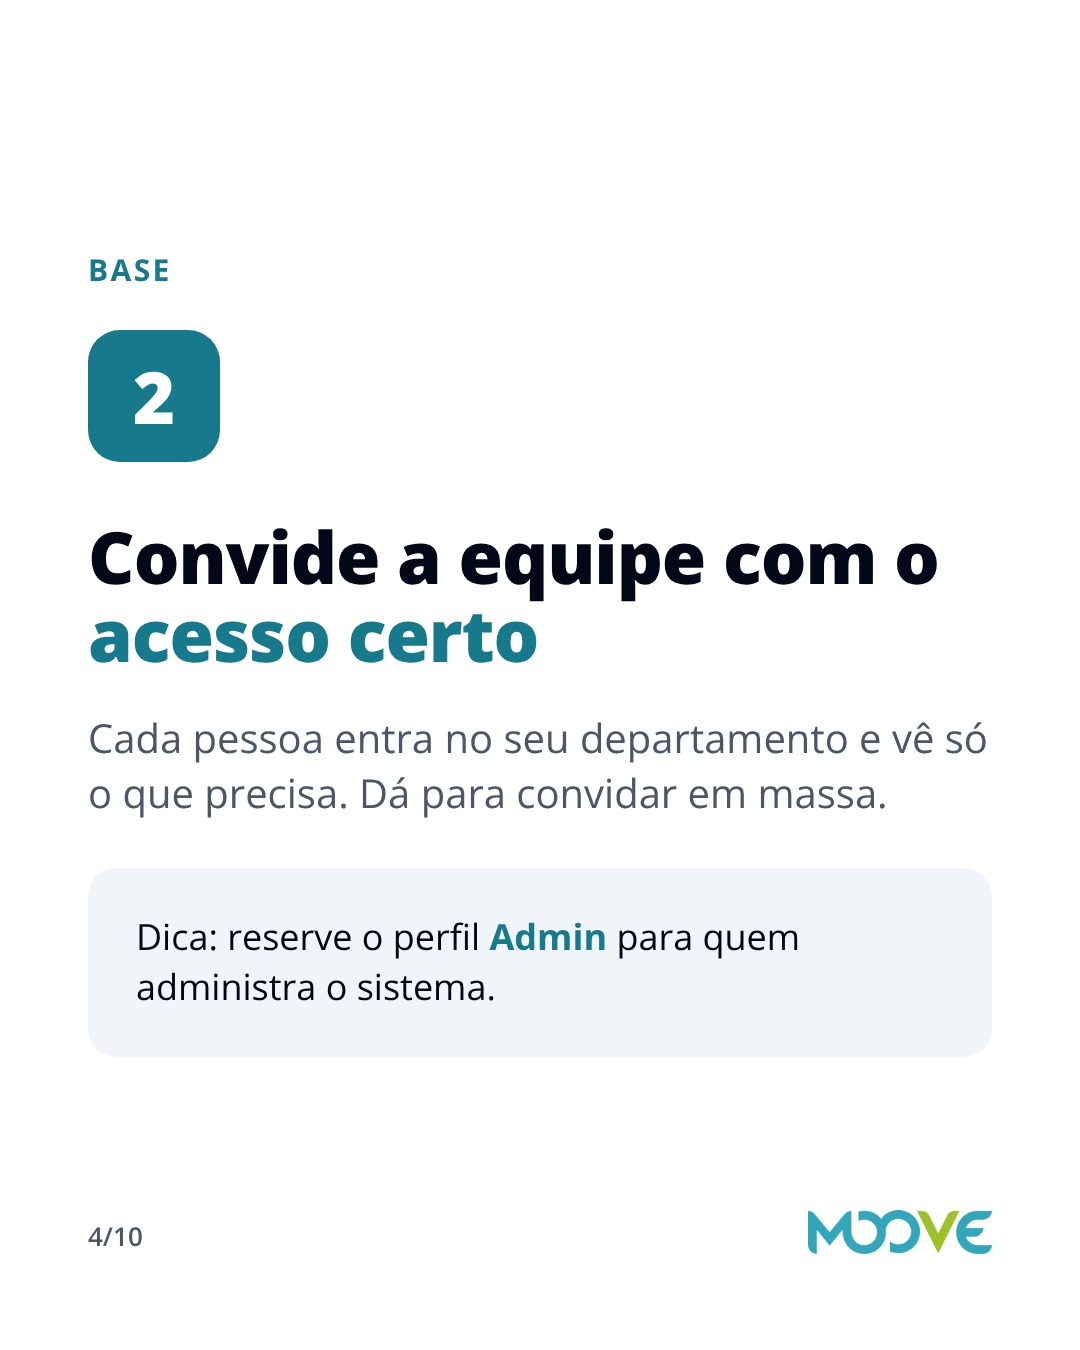
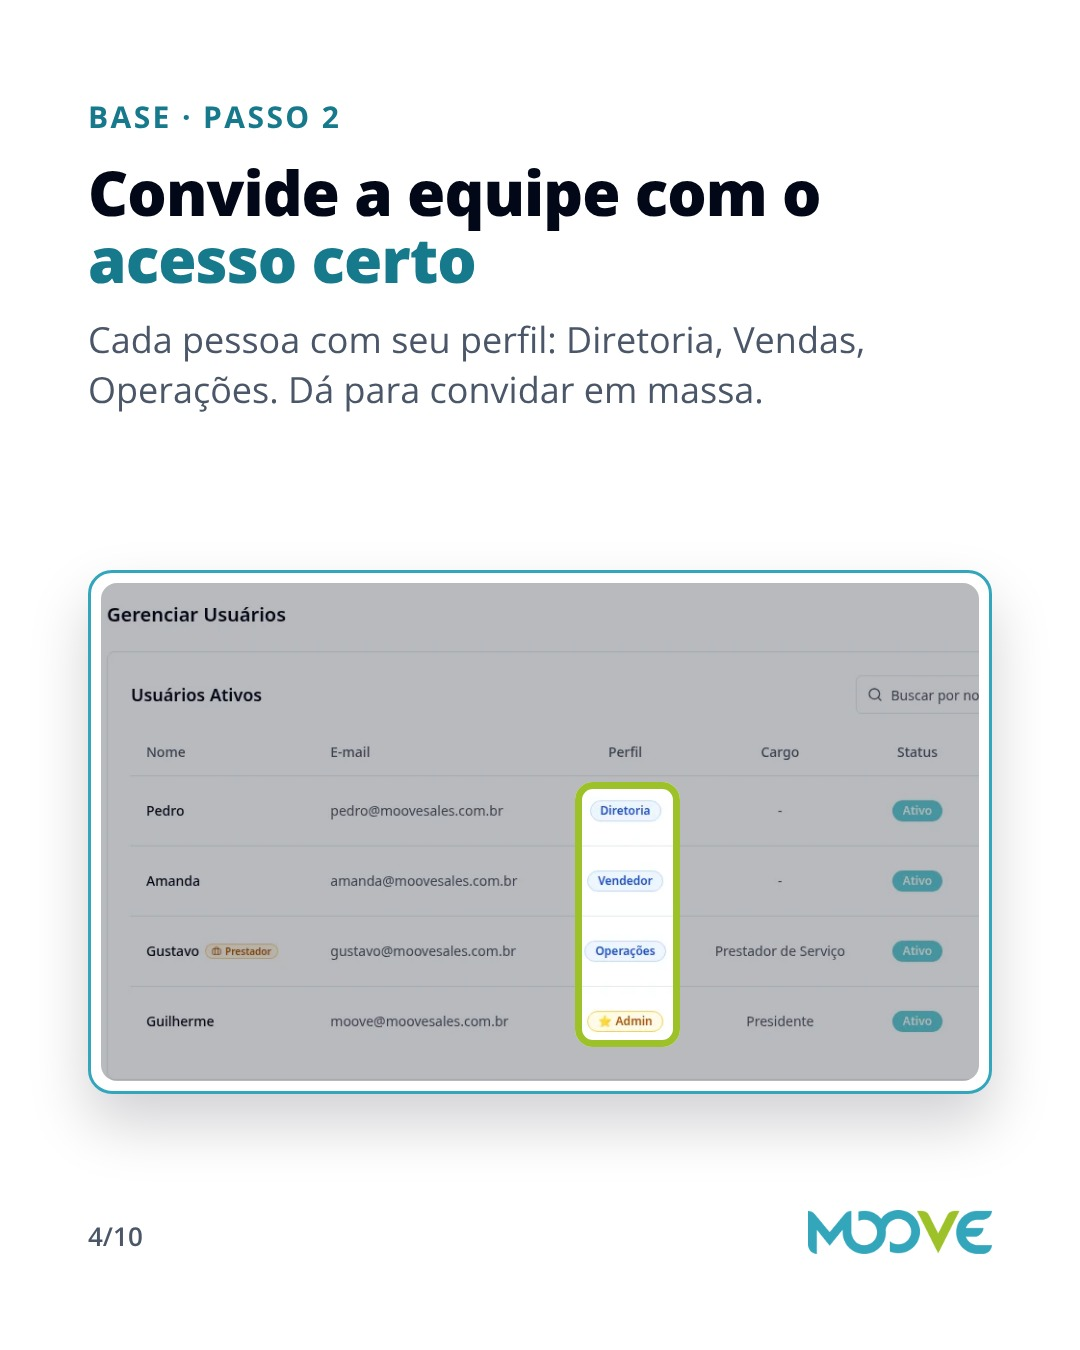
Telas de usuários e permissões liberadas; passo 2 com tela
Claude-Session: https://claude.ai/code/session_019mRqcKRLGfPi9zdJtbKNbn

diff --git a/kit/telas/CATALOGO.md b/kit/telas/CATALOGO.md
@@ -11,7 +11,7 @@ Uso no kit: slide `"tipo": "tela"` com `"tela": "<arquivo>"`. Arquivos terminado
 1. O texto do slide só pode afirmar o que a tela mostra (coluna "Comprova"). Recurso que não aparece na tela precisa de outra tela ou de outra fonte (manual do Moove via conector).
 2. Use o nome do módulo como aparece no menu do sistema (coluna "Módulo / caminho").
 3. Números das telas são de demonstração: nunca apresentar como resultado de cliente nem da Moove.
-4. Respeite a coluna "Cuidados". **Não usar:** `usuarios.webp`, `permissoes.webp` (e-mails da equipe), `identidade.webp` (avisos de "sem permissão" na tela).
+4. Respeite a coluna "Cuidados". **Não usar:** `identidade.webp` (avisos de "sem permissão" na tela). `usuarios.webp` e `permissoes.webp` estão liberadas: os e-mails são fictícios (confirmado por Guilherme em 02/11/2026).
 
 ## Comercial e atendimento
 
@@ -75,6 +75,13 @@ Uso no kit: slide `"tipo": "tela"` com `"tela": "<arquivo>"`. Arquivos terminado
 | perfis.webp | Configurações › Departamentos | Departamentos cadastrados | Cadastro de departamentos com descrição | O nome do arquivo não corresponde: é a tela de **Departamentos** |
 | etica.webp / etica-m.webp | Canal de Ética | Denúncia DEN-2026 (fictícia) | Gestão de caso com severidade, investigador, linha do tempo e conversa anônima | Só em post sobre canal de ética, deixando claro que o caso é fictício |
 
+## Configurações
+
+| Arquivo | Módulo / caminho | Tela exata | Comprova | Cuidados |
+| --- | --- | --- | --- | --- |
+| usuarios.webp | Configurações › Gerenciar Usuários | Usuários Ativos | Usuários com perfil (Diretoria, Vendedor, Operações, Admin), cargo, status, prestador de serviço; abas Criar Usuário e Permissões | E-mails fictícios |
+| permissoes.webp | Configurações › Permissões | Permissões por usuário | Acesso às abas de Configurações definido por pessoa | E-mails fictícios |
+
 ## Planejamento estratégico
 
 | Arquivo | Módulo / caminho | Tela exata | Comprova | Cuidados |
@@ -89,6 +96,4 @@ Uso no kit: slide `"tipo": "tela"` com `"tela": "<arquivo>"`. Arquivos terminado
 
 | Arquivo | Motivo |
 | --- | --- |
-| usuarios.webp | Configurações › Gerenciar Usuários com e-mails reais da equipe |
-| permissoes.webp | Configurações › Permissões com e-mails reais da equipe |
 | identidade.webp | Avisos de "sem permissão" na tela |
